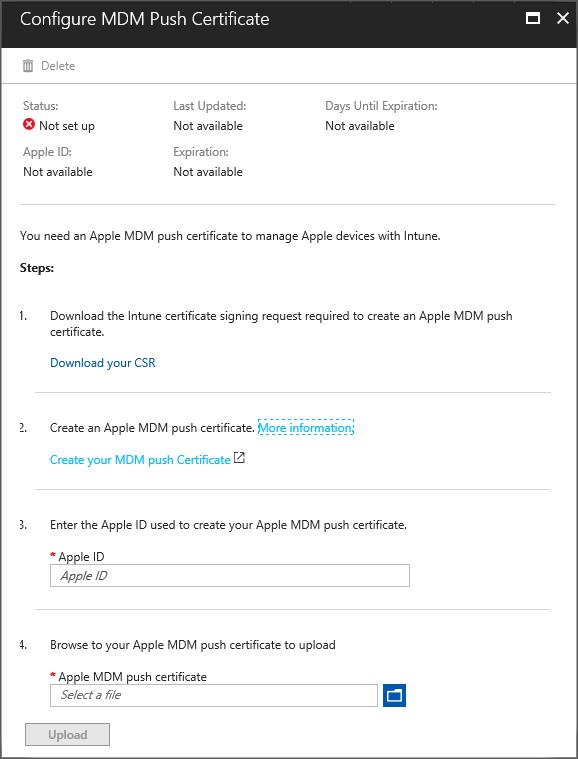
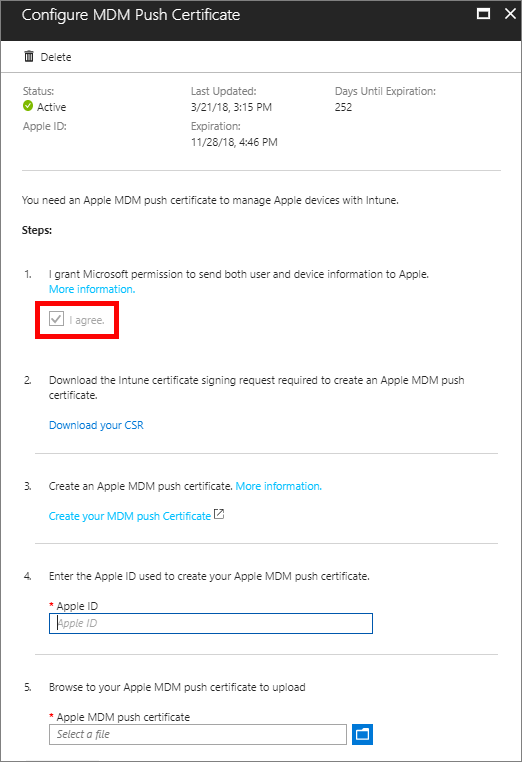
1892505

Changed region(s): [[0.0, 0.0, 1.0, 1.0], [0.5517, 0.0909, 0.8582, 0.1818], [0.7663, 0.3333, 0.7969, 0.3636]]

diff --git a/intune/apple-mdm-push-certificate-get.md b/intune/apple-mdm-push-certificate-get.md
@@ -37,14 +37,14 @@ ms.custom: intune-azure
 In the [Azure portal](https://portal.azure.com), choose **Device enrollment** > **Apple Enrollment** > **Apple MDM Push Certificate**, and then follow these steps in the [Azure portal](https://portal.azure.com).
 
 ###Step 1. Grant Microsoft permission to send user and device information to Apple
-Choose **I agree.** to give Microsoft permission to send data to Apple.
+Select **I agree.** to give Microsoft permission to send data to Apple.
 
-###tep 2. Download the Intune certificate signing request required to create an Apple MDM push certificate
+![The Configure MDM Push Certificate screen with MDM Push not set up.](./media/create-mdm-push-certificate.png)
+
+###Step 2. Download the Intune certificate signing request required to create an Apple MDM push certificate
 Select **Download your CSR** to download and save the request file locally. The file is used to request a trust relationship certificate from the Apple Push Certificates Portal.
 
-  ![The Configure MDM Push Certificate screen with MDM Push not set up.](./media/create-mdm-push-certificate.png)
-
-###Step 3. Create an Apple MDM push certificate
+  ###Step 3. Create an Apple MDM push certificate
 Select **Create your MDM push Certificate** to go to the Apple Push Certificates Portal. Sign in with your company Apple ID, and then click **Create a Certificate**. Select **Choose File** and browse to the certificate signing request file, and then choose **Upload**. On the Confirmation page, choose **Download** to the download the certificate (.pem)  file, and save the file locally.
 
 > [!NOTE]
